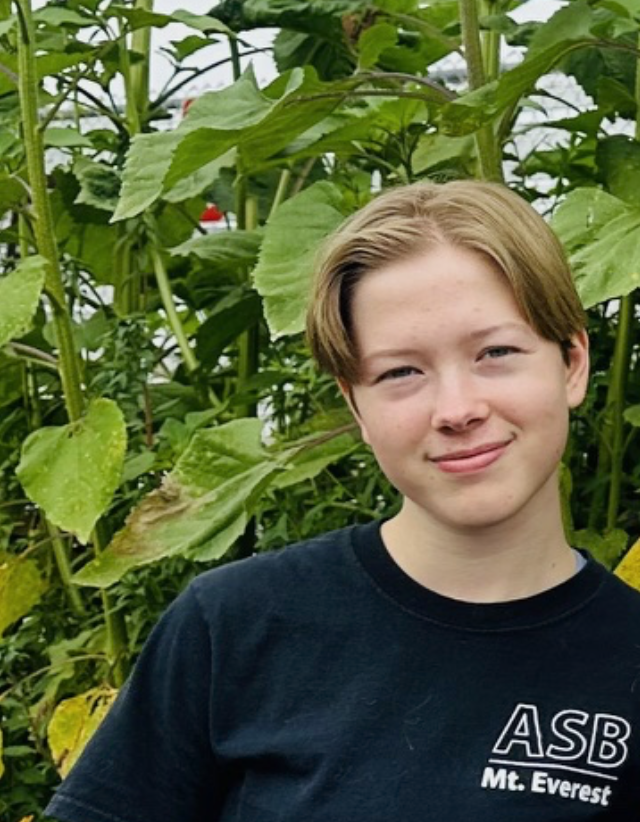
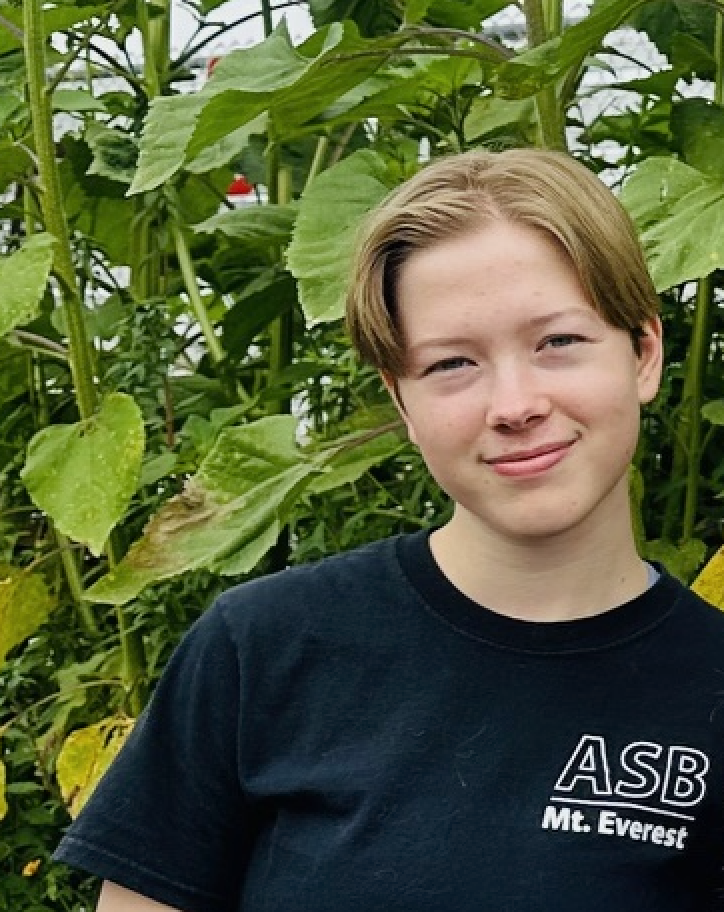
Testing committing changes from Replit to GitHub.

diff --git a/style.css b/style.css
@@ -3,6 +3,11 @@
 html, body {
   height: 100%;
   width: 100%;
+  min-height: 100vh;
+  display: flex;
+  flex-direction: column;
+  align-items : center;
+
 }
 
 .logo {
@@ -59,8 +64,8 @@ nav a:hover {
 
 .titlestart {
   width: 100%;
+  height: 620px;
   background-image: url("./images/header.png");
-  height: 580px;
   background-repeat: no-repeat;
   background-size: cover;
 }
@@ -129,16 +134,17 @@ h3 {
 .aboutImgContainer {
 	background-color: #000000;
 	display: flex;
-	gap: 26px;
 	flex-wrap: wrap;
   margin: 0px;
-  padding: 20px 20px 40px 20px;
   justify-content: center;
+  font-size: zero;
+  width: 100%;
 }
 
 .aboutImg {
   height: 380px;
   align-items: center;
+  padding: 20px 10px 10px 10px;
 }
 
 .container {
@@ -197,12 +203,13 @@ h3 {
 	width: 300px;
 	background-color: #ffffff;
   padding: 10px;
-  border-radius: 10px;
 }
 
 .box1 img {
 	width: 100%;
   border-radius: 5px;
+  max-height: 360px;
+  object-fit: cover;
 }
 
 .box1Name {
@@ -244,6 +251,35 @@ h3 {
   padding-right: 20px;
 }
 
+footer {
+  margin-top: auto;
+  width: 100%;
+}
+
+.footerTextWhite {
+  background-color: #ffffff;
+  font-family: 'Montserrat', sans-serif;
+  text-align: center;
+  font-size: 16px;
+  font-weight: bold;
+  color: #000000;
+  padding-bottom: 20px;
+  padding-top: 20px;
+  margin-top: auto;
+}
+
+.footerTextBlack {
+  background-color: #000000;
+  font-family: 'Montserrat', sans-serif;
+  text-align: center;
+  font-size: 16px;
+  font-weight: bold;
+  color: #ffffff;
+  padding-bottom: 20px;
+  padding-top: 20px;
+  margin: 0px;
+}
+
 .typer {
   font-family: 'Montserrat', sans-serif;
   text-align: left;
@@ -276,12 +312,13 @@ h3 {
 /* moving cards */
 .container {
   position: relative;
-  width: 1100px;
+  width: 100;
   display: flex;
   align-items: center;
   justify-content: center;
   flex-wrap: warp;
-  padding: 75px;
+  padding-top: 80px;
+  padding-bottom: 0px;
   z-index: 1;
 }
 
@@ -290,7 +327,7 @@ h3 {
   max-width: 300px;
   height: 215px;  
   background-color: #ffffff;
-  margin: 20px 10px;
+  margin: 20px 30px;
   padding: 20px 15px;
   
   display: flex;
@@ -309,14 +346,14 @@ h3 {
   height: 260px;
   
   top: -40%;
-  left: 8px;
-  box-shadow: 0 5px 20px rgba(0,0,0,0.2);
+  align-self: center;
   z-index: 1;
 }
 
 .container .card .image img {
   max-width: 100%;
   border-radius: 15px;
+  box-shadow: 0 5px 20px rgba(0,0,0,0.2);
 }
 
 .container .card .content {

diff --git a/contact.html b/contact.html
@@ -34,15 +34,15 @@
         <h3 class="box1Name">President</h3>
         <p class="box1Text">Malia Wilke</p>
         <p class="box1Text"><a href="mailto:maliawilke@gmail.com" class="contact-link">maliawilke@gmail.com</a></p>
-        <p class="box1Text">Malia has been a dedicated member of Coop Group for 3 years and helped the club restart
-          after COVID-19. She also created this website.</p>
+        <p class="box1Text">Malia has been a dedicated member of Coop Group for 4 years and helped the club restart
+          after Covid. She also created this website.</p>
       </section>
       <section class="box1">
         <img src="images/miranda.png">
-        <h3 class="box1Name">President</h3>
+        <h3 class="box1Name">VP</h3>
         <p class="box1Text">Miranda Martien</p>
         <p class="box1Text"><a href="mailto:miranda@themartiens.com" class="contact-link">miranda@themartiens.com</a></p>
-        <p class="box1Text">Miranda loves helping out with the chickens!</p>
+        <p class="box1Text">Miranda loves helping out with the chickens and has been a part of Coop Group for 4 years.</p>
       </section>
     </div>
     <hr class="line">
@@ -60,8 +60,13 @@
     <p>If she isn’t working in the gardens, you’ll find her writing grants to support all the items needed to keep every
       garden healthy and vibrant, walking neighbor’s dogs with her son, or enjoying the amazing outdoor spaces around
       San Diego... and beyond.</p>
+
+    <footer>
+      <p class="footerTextWhite">Coded by Malia Wilke in 2024</p>
+    </footer>
+    
   </div>
-  <br>
+  
 </body>
 
 </html>

diff --git a/index.html b/index.html
@@ -27,9 +27,12 @@
     <br><br><br><br><br><br><br><br>
     <h2 class="subTitle">Mt. Everest Academy</h2>
     <h1 class="title">Coop Group</h1>
-    <h2 class="subTitle">Meetings: Weekly Tuesdays 9:30-10:15</h2>
+    <h2 class="subTitle">Meetings: Weekly Wednesdays 12:45-1:30</h2>
+    <br><br><br><br><br><br><br><br>
   </div>
+  
   <br>
+  
   <div class="main">
     <h1 class="typer">Welcome to the MEA Coop Group website!</h1>
     <hr class="line">
@@ -52,11 +55,15 @@
     <h3>New Coop Ramp</h3>
     <p>The coop now has new, sturdy ramp to replace the rotting old one. It's withstood a year and the paint hasn't started to chip off yet.</p>
     <h3>Above Netting</h3>
-    <p>To ensure Cleopatra is safe in her coop, we fixed any holes in the above netting to keep out any predators. She can now sleep sound at night.</p>
+    <p>To ensure Cleopatra is safe in her coop, we fixed any holes in the above netting to keep out any predators. She can now sleep sound at night </p>  
     <hr class="line">
-    <br>
+    
+    <footer>
+      <p class="footerTextWhite">Coded by Malia Wilke in 2024</p>
+    </footer>
+    
   </div>
-
+  
 </body>
 
 </html>

diff --git a/theChickens.html b/theChickens.html
@@ -63,7 +63,9 @@
           <p>Chris was a white leghorn who loved to eat bugs! She had a floppy, large comb that was bright red.</p>
         </div>
       </div>
+      
     </div>
+    <br>
     
     <div class="container">
       <div class="card">
@@ -86,9 +88,11 @@
         </div>
       </div>
     </div>
-
-    <hr class="line">
-    <br>
+    
+    <footer>
+      <p class="footerTextWhite">Coded by Malia Wilke in 2024</p>
+    </footer>
+    
   </div>
 </body>
 

diff --git a/about.html b/about.html
@@ -40,11 +40,17 @@
     <hr class="line">
     <br>
   </div>
+  
   <div class="aboutImgContainer">
     <img class="aboutImg" src="images/about.jpeg">
     <img class="aboutImg" src="images/about2.jpeg">
-    <img class="aboutImg" src="images/about3.jpeg">
+    <img class="aboutImg" src="images/about3.jpeg"> 
   </div>
+
+  <footer>
+    <p class="footerTextBlack">Coded by Malia Wilke in 2024</p>
+  </footer>
+  
 </body>
 
 </html>

diff --git a/resources.html b/resources.html
@@ -27,7 +27,13 @@
     <p>Whether you have chickens yourself or are just passionate about chicken husbondry and want to learn more these resources may be
       helpful to you!</p>
     <p class="animated_div">Resources to come!</p>
+
+    <footer>
+      <p class="footerTextWhite">Coded by Malia Wilke in 2024</p>
+    </footer>
+    
   </div>
+  
 </body>
 
 </html>

diff --git a/elementrary.html b/elementrary.html
@@ -29,7 +29,13 @@
       teach youger kids about chickens and animal care. Please note, that a student must be accompanied by their adult.
       We hope to see you there!
     </p>
+
+    <footer>
+      <p class="footerTextWhite">Coded by Malia Wilke in 2024</p>
+    </footer>
+    
   </div>
+  
 </body>
 
 </html>
